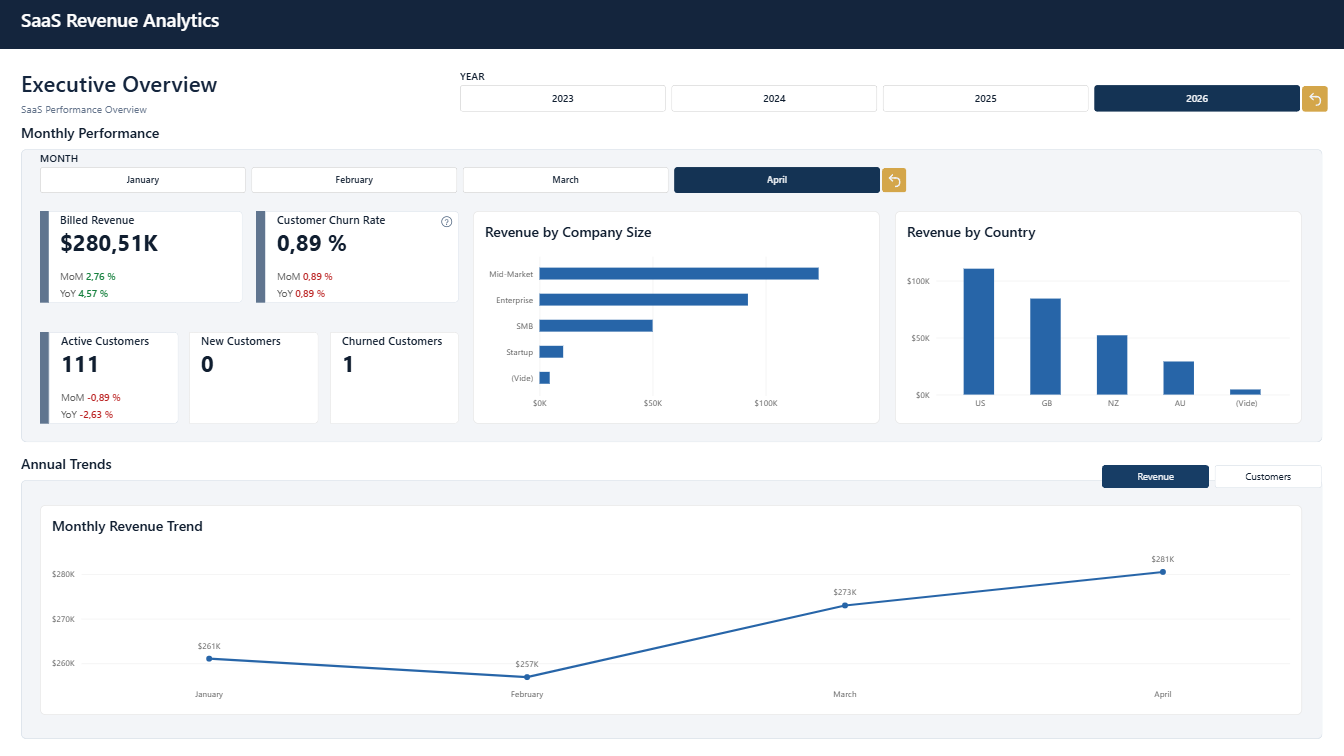
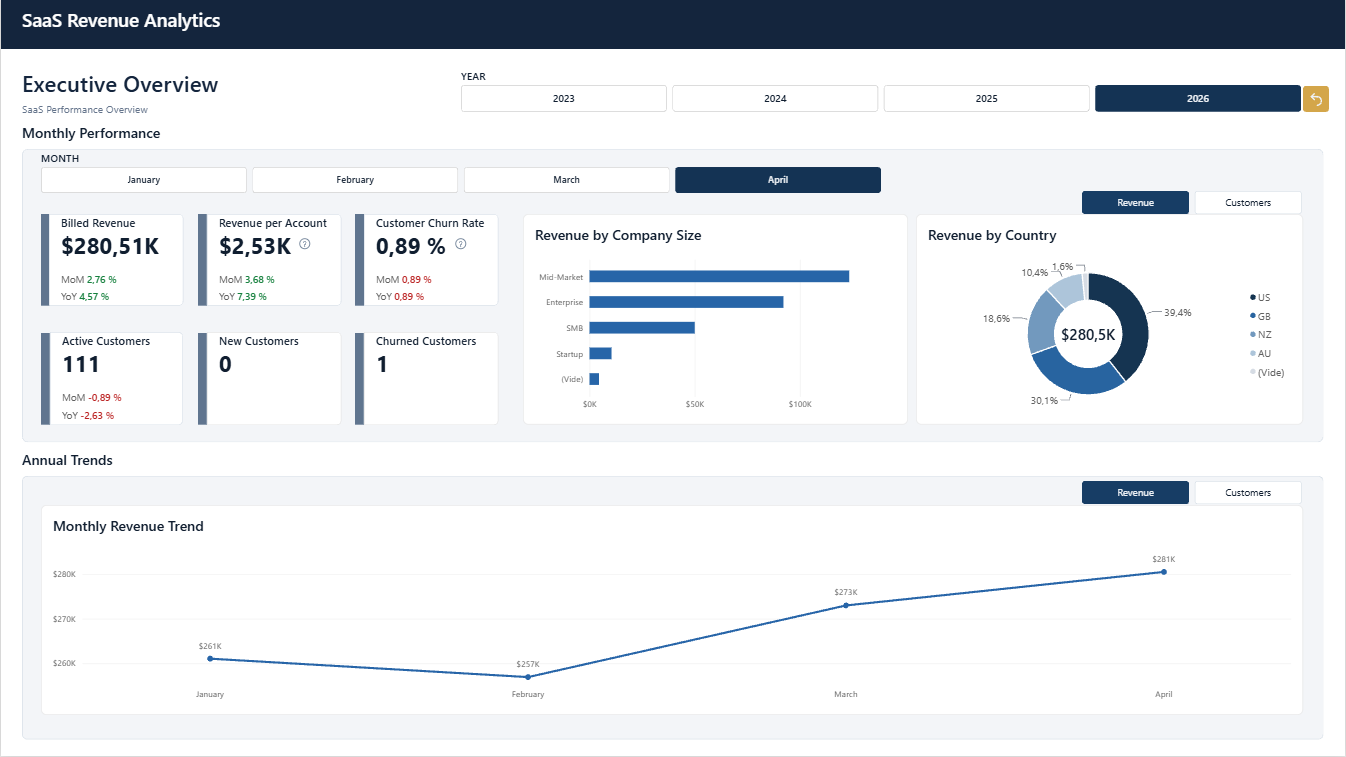
docs: update Power BI Executive Overview

diff --git a/README.md b/README.md
@@ -253,6 +253,11 @@ The Executive Overview dashboard provides a consolidated view of SaaS business p
 
 Built with Power BI, it features custom KPI cards powered by DAX measures, dynamic year and month slicers, MoM and YoY comparisons, conditional formatting, interactive cross-filtering, informational tooltips, and bookmark-driven visual navigation.
 
+The dashboard is organized into two complementary sections:
+
+- **Monthly Performance:** six key performance indicators (Billed Revenue, Revenue per Account, Customer Churn Rate, Active Customers, New Customers, and Churned Customers), with interactive revenue and active customer breakdowns by company size and country.
+- **Annual Trends:** monthly revenue trends and customer base evolution throughout the selected year.
+
 **Data Coverage:** The dataset covers SaaS activity through April 2026, the last complete month available for analysis. Reporting is limited to this period to ensure consistent monthly KPIs and avoid comparisons based on incomplete months.
 
 ![SaaS Revenue Analytics - Executive Overview](powerbi/executive-overview.png)
